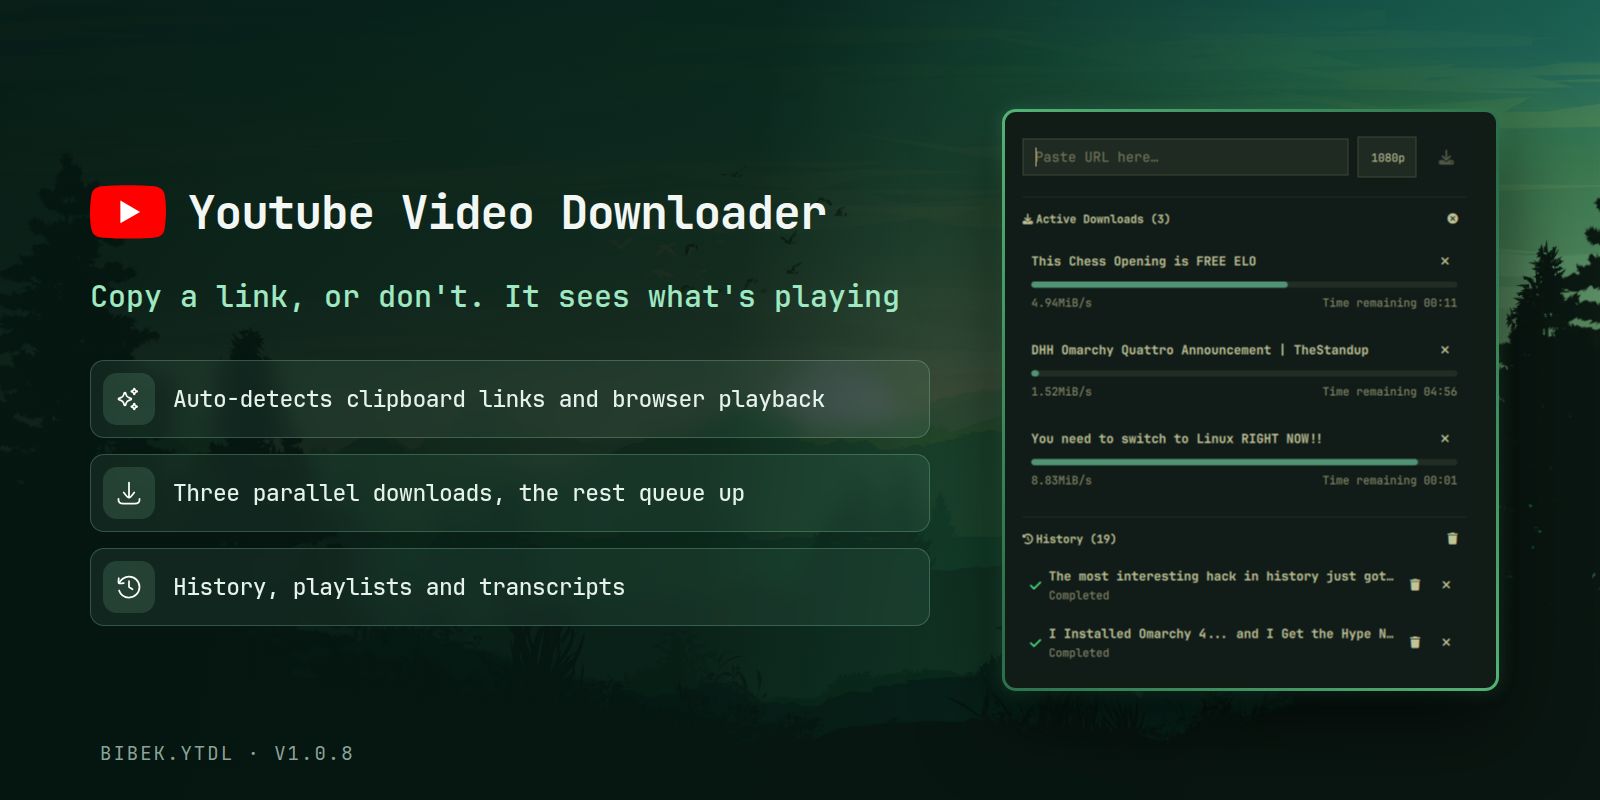
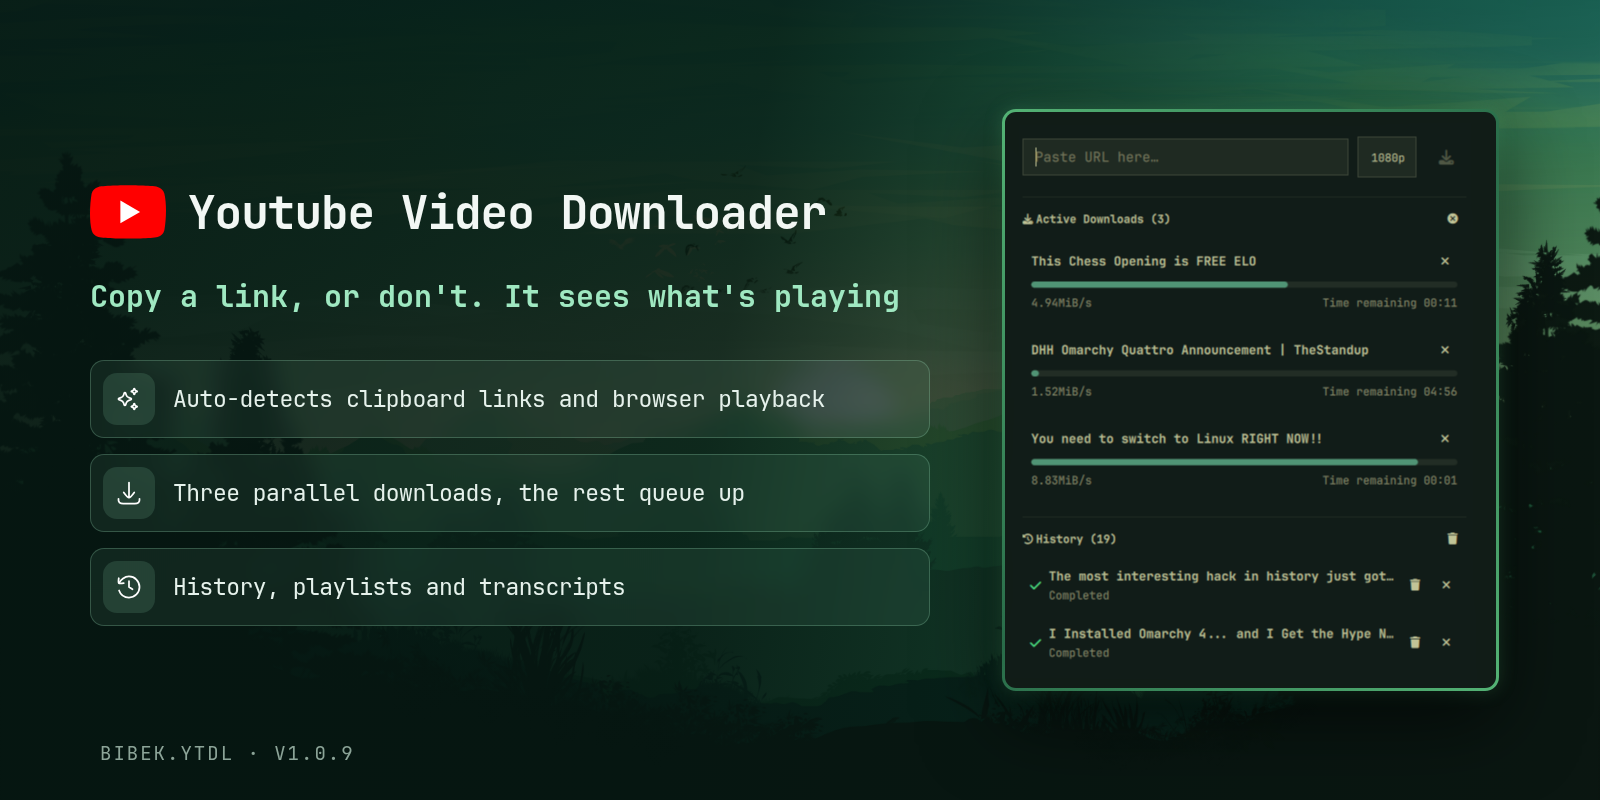
chore: 🔧 prep ytdl v1.0.9 for publish

diff --git a/ytdl/README.md b/ytdl/README.md
@@ -137,5 +137,8 @@ Here are my other Omarchy plugins:
 - [Focusd](https://github.com/BibekBhusal0/omarchy-focusd) - pomodoro timer with streak, history and daily goal
 - [Obsidian Search](https://github.com/BibekBhusal0/omarchy-obsidian-search) - fuzzy-search your Obsidian vault
 - [Readest](https://github.com/BibekBhusal0/omarchy-readest) - fuzzy-search your Readest library
+- [Better Lock](https://github.com/BibekBhusal0/omarchy-better-lock) - lock screen with date/time, media and power controls
+- [Better Media](https://github.com/BibekBhusal0/omarchy-better-media) - MPRIS now-playing with playback controls
+- [Better Menu](https://github.com/BibekBhusal0/omarchy-better-menu) - fuzzy menu with app grid, calculator and web search
 
 Please give a star if you find them useful!
